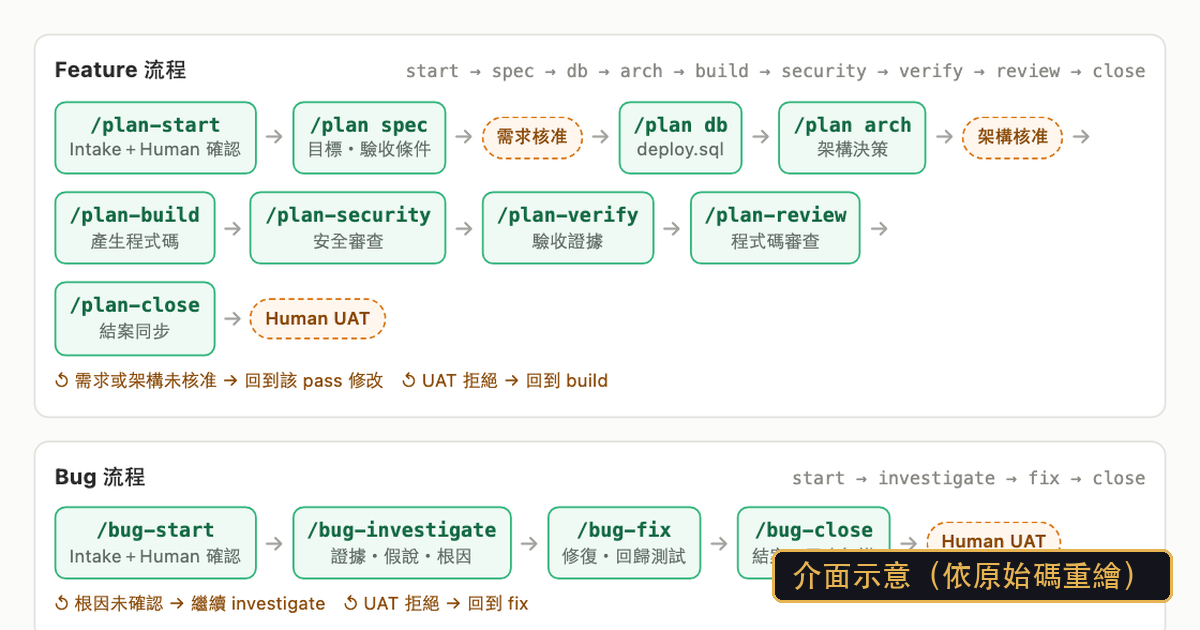
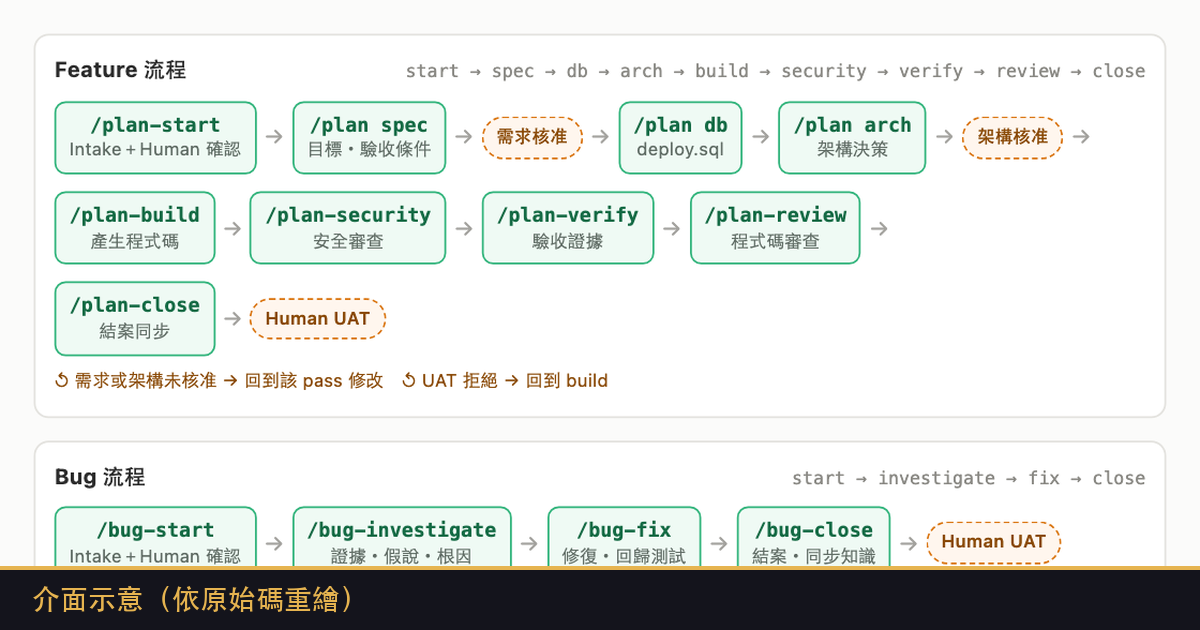
fix(sites): 總驗收修正：示意圖 OG 改用底部標註帶，手機版標題與 eyebrow 不再擠壓
- 示意主圖的 OG 圖改把截圖縮進上方、底部留獨立標註帶，標註不會壓住圖上內容（crew 原本壓到兩個方框）
- eyebrow 行高 1 → 1.5，換行時兩行不再黏在一起
- 首屏標題最小字級 44px → 30px，長中文名稱（家庭任務集點樂園）在 400px 寬不再把游標擠到下一行

Changed region(s): [[0.0, 0.8444, 1.0, 1.0]]

diff --git a/_sites/_template/page.html b/_sites/_template/page.html
@@ -94,9 +94,9 @@ kbd{border:1px solid var(--line);border-bottom-width:2px;border-radius:4px;paddi
 .hero{padding-block:clamp(40px,7vw,88px) clamp(32px,5vw,56px);
   background:radial-gradient(1200px 400px at 85% -10%, var(--accent-soft), transparent 70%)}
 .hero-grid{display:grid;gap:clamp(28px,4vw,48px)}
-.eyebrow{font:13px/1 var(--mono);color:var(--dim);margin:0 0 14px}
+.eyebrow{font:13px/1.5 var(--mono);color:var(--dim);margin:0 0 14px}
 .eyebrow b{color:var(--accent-ink);font-weight:600}
-.hero h1{margin:0;font:600 clamp(44px,8vw,76px)/1 var(--mono);letter-spacing:-.02em}
+.hero h1{margin:0;font:600 clamp(30px,8vw,76px)/1.1 var(--mono);letter-spacing:-.02em}
 .hero h1 .cur{display:inline-block;width:.5em;height:.9em;background:var(--accent);vertical-align:-.08em;margin-left:.08em;animation:blink 1.1s steps(1) infinite}
 @keyframes blink{50%{opacity:0}}
 @media (prefers-reduced-motion: reduce){.hero h1 .cur{animation:none}}

diff --git a/chatpulse/index.html b/chatpulse/index.html
@@ -94,9 +94,9 @@ kbd{border:1px solid var(--line);border-bottom-width:2px;border-radius:4px;paddi
 .hero{padding-block:clamp(40px,7vw,88px) clamp(32px,5vw,56px);
   background:radial-gradient(1200px 400px at 85% -10%, var(--accent-soft), transparent 70%)}
 .hero-grid{display:grid;gap:clamp(28px,4vw,48px)}
-.eyebrow{font:13px/1 var(--mono);color:var(--dim);margin:0 0 14px}
+.eyebrow{font:13px/1.5 var(--mono);color:var(--dim);margin:0 0 14px}
 .eyebrow b{color:var(--accent-ink);font-weight:600}
-.hero h1{margin:0;font:600 clamp(44px,8vw,76px)/1 var(--mono);letter-spacing:-.02em}
+.hero h1{margin:0;font:600 clamp(30px,8vw,76px)/1.1 var(--mono);letter-spacing:-.02em}
 .hero h1 .cur{display:inline-block;width:.5em;height:.9em;background:var(--accent);vertical-align:-.08em;margin-left:.08em;animation:blink 1.1s steps(1) infinite}
 @keyframes blink{50%{opacity:0}}
 @media (prefers-reduced-motion: reduce){.hero h1 .cur{animation:none}}

diff --git a/crew/index.html b/crew/index.html
@@ -94,9 +94,9 @@ kbd{border:1px solid var(--line);border-bottom-width:2px;border-radius:4px;paddi
 .hero{padding-block:clamp(40px,7vw,88px) clamp(32px,5vw,56px);
   background:radial-gradient(1200px 400px at 85% -10%, var(--accent-soft), transparent 70%)}
 .hero-grid{display:grid;gap:clamp(28px,4vw,48px)}
-.eyebrow{font:13px/1 var(--mono);color:var(--dim);margin:0 0 14px}
+.eyebrow{font:13px/1.5 var(--mono);color:var(--dim);margin:0 0 14px}
 .eyebrow b{color:var(--accent-ink);font-weight:600}
-.hero h1{margin:0;font:600 clamp(44px,8vw,76px)/1 var(--mono);letter-spacing:-.02em}
+.hero h1{margin:0;font:600 clamp(30px,8vw,76px)/1.1 var(--mono);letter-spacing:-.02em}
 .hero h1 .cur{display:inline-block;width:.5em;height:.9em;background:var(--accent);vertical-align:-.08em;margin-left:.08em;animation:blink 1.1s steps(1) infinite}
 @keyframes blink{50%{opacity:0}}
 @media (prefers-reduced-motion: reduce){.hero h1 .cur{animation:none}}

diff --git a/familyreward/index.html b/familyreward/index.html
@@ -94,9 +94,9 @@ kbd{border:1px solid var(--line);border-bottom-width:2px;border-radius:4px;paddi
 .hero{padding-block:clamp(40px,7vw,88px) clamp(32px,5vw,56px);
   background:radial-gradient(1200px 400px at 85% -10%, var(--accent-soft), transparent 70%)}
 .hero-grid{display:grid;gap:clamp(28px,4vw,48px)}
-.eyebrow{font:13px/1 var(--mono);color:var(--dim);margin:0 0 14px}
+.eyebrow{font:13px/1.5 var(--mono);color:var(--dim);margin:0 0 14px}
 .eyebrow b{color:var(--accent-ink);font-weight:600}
-.hero h1{margin:0;font:600 clamp(44px,8vw,76px)/1 var(--mono);letter-spacing:-.02em}
+.hero h1{margin:0;font:600 clamp(30px,8vw,76px)/1.1 var(--mono);letter-spacing:-.02em}
 .hero h1 .cur{display:inline-block;width:.5em;height:.9em;background:var(--accent);vertical-align:-.08em;margin-left:.08em;animation:blink 1.1s steps(1) infinite}
 @keyframes blink{50%{opacity:0}}
 @media (prefers-reduced-motion: reduce){.hero h1 .cur{animation:none}}

diff --git a/filmaxweb/index.html b/filmaxweb/index.html
@@ -94,9 +94,9 @@ kbd{border:1px solid var(--line);border-bottom-width:2px;border-radius:4px;paddi
 .hero{padding-block:clamp(40px,7vw,88px) clamp(32px,5vw,56px);
   background:radial-gradient(1200px 400px at 85% -10%, var(--accent-soft), transparent 70%)}
 .hero-grid{display:grid;gap:clamp(28px,4vw,48px)}
-.eyebrow{font:13px/1 var(--mono);color:var(--dim);margin:0 0 14px}
+.eyebrow{font:13px/1.5 var(--mono);color:var(--dim);margin:0 0 14px}
 .eyebrow b{color:var(--accent-ink);font-weight:600}
-.hero h1{margin:0;font:600 clamp(44px,8vw,76px)/1 var(--mono);letter-spacing:-.02em}
+.hero h1{margin:0;font:600 clamp(30px,8vw,76px)/1.1 var(--mono);letter-spacing:-.02em}
 .hero h1 .cur{display:inline-block;width:.5em;height:.9em;background:var(--accent);vertical-align:-.08em;margin-left:.08em;animation:blink 1.1s steps(1) infinite}
 @keyframes blink{50%{opacity:0}}
 @media (prefers-reduced-motion: reduce){.hero h1 .cur{animation:none}}

diff --git a/splitswan/index.html b/splitswan/index.html
@@ -94,9 +94,9 @@ kbd{border:1px solid var(--line);border-bottom-width:2px;border-radius:4px;paddi
 .hero{padding-block:clamp(40px,7vw,88px) clamp(32px,5vw,56px);
   background:radial-gradient(1200px 400px at 85% -10%, var(--accent-soft), transparent 70%)}
 .hero-grid{display:grid;gap:clamp(28px,4vw,48px)}
-.eyebrow{font:13px/1 var(--mono);color:var(--dim);margin:0 0 14px}
+.eyebrow{font:13px/1.5 var(--mono);color:var(--dim);margin:0 0 14px}
 .eyebrow b{color:var(--accent-ink);font-weight:600}
-.hero h1{margin:0;font:600 clamp(44px,8vw,76px)/1 var(--mono);letter-spacing:-.02em}
+.hero h1{margin:0;font:600 clamp(30px,8vw,76px)/1.1 var(--mono);letter-spacing:-.02em}
 .hero h1 .cur{display:inline-block;width:.5em;height:.9em;background:var(--accent);vertical-align:-.08em;margin-left:.08em;animation:blink 1.1s steps(1) infinite}
 @keyframes blink{50%{opacity:0}}
 @media (prefers-reduced-motion: reduce){.hero h1 .cur{animation:none}}

diff --git a/sshm/index.html b/sshm/index.html
@@ -94,9 +94,9 @@ kbd{border:1px solid var(--line);border-bottom-width:2px;border-radius:4px;paddi
 .hero{padding-block:clamp(40px,7vw,88px) clamp(32px,5vw,56px);
   background:radial-gradient(1200px 400px at 85% -10%, var(--accent-soft), transparent 70%)}
 .hero-grid{display:grid;gap:clamp(28px,4vw,48px)}
-.eyebrow{font:13px/1 var(--mono);color:var(--dim);margin:0 0 14px}
+.eyebrow{font:13px/1.5 var(--mono);color:var(--dim);margin:0 0 14px}
 .eyebrow b{color:var(--accent-ink);font-weight:600}
-.hero h1{margin:0;font:600 clamp(44px,8vw,76px)/1 var(--mono);letter-spacing:-.02em}
+.hero h1{margin:0;font:600 clamp(30px,8vw,76px)/1.1 var(--mono);letter-spacing:-.02em}
 .hero h1 .cur{display:inline-block;width:.5em;height:.9em;background:var(--accent);vertical-align:-.08em;margin-left:.08em;animation:blink 1.1s steps(1) infinite}
 @keyframes blink{50%{opacity:0}}
 @media (prefers-reduced-motion: reduce){.hero h1 .cur{animation:none}}

diff --git a/treef/index.html b/treef/index.html
@@ -94,9 +94,9 @@ kbd{border:1px solid var(--line);border-bottom-width:2px;border-radius:4px;paddi
 .hero{padding-block:clamp(40px,7vw,88px) clamp(32px,5vw,56px);
   background:radial-gradient(1200px 400px at 85% -10%, var(--accent-soft), transparent 70%)}
 .hero-grid{display:grid;gap:clamp(28px,4vw,48px)}
-.eyebrow{font:13px/1 var(--mono);color:var(--dim);margin:0 0 14px}
+.eyebrow{font:13px/1.5 var(--mono);color:var(--dim);margin:0 0 14px}
 .eyebrow b{color:var(--accent-ink);font-weight:600}
-.hero h1{margin:0;font:600 clamp(44px,8vw,76px)/1 var(--mono);letter-spacing:-.02em}
+.hero h1{margin:0;font:600 clamp(30px,8vw,76px)/1.1 var(--mono);letter-spacing:-.02em}
 .hero h1 .cur{display:inline-block;width:.5em;height:.9em;background:var(--accent);vertical-align:-.08em;margin-left:.08em;animation:blink 1.1s steps(1) infinite}
 @keyframes blink{50%{opacity:0}}
 @media (prefers-reduced-motion: reduce){.hero h1 .cur{animation:none}}

diff --git a/voicetype/index.html b/voicetype/index.html
@@ -94,9 +94,9 @@ kbd{border:1px solid var(--line);border-bottom-width:2px;border-radius:4px;paddi
 .hero{padding-block:clamp(40px,7vw,88px) clamp(32px,5vw,56px);
   background:radial-gradient(1200px 400px at 85% -10%, var(--accent-soft), transparent 70%)}
 .hero-grid{display:grid;gap:clamp(28px,4vw,48px)}
-.eyebrow{font:13px/1 var(--mono);color:var(--dim);margin:0 0 14px}
+.eyebrow{font:13px/1.5 var(--mono);color:var(--dim);margin:0 0 14px}
 .eyebrow b{color:var(--accent-ink);font-weight:600}
-.hero h1{margin:0;font:600 clamp(44px,8vw,76px)/1 var(--mono);letter-spacing:-.02em}
+.hero h1{margin:0;font:600 clamp(30px,8vw,76px)/1.1 var(--mono);letter-spacing:-.02em}
 .hero h1 .cur{display:inline-block;width:.5em;height:.9em;background:var(--accent);vertical-align:-.08em;margin-left:.08em;animation:blink 1.1s steps(1) infinite}
 @keyframes blink{50%{opacity:0}}
 @media (prefers-reduced-motion: reduce){.hero h1 .cur{animation:none}}

diff --git a/tools/build_sites.py b/tools/build_sites.py
@@ -47,6 +47,7 @@ OG_SIZE = (1200, 630)
 OG_FONTS = ["/System/Library/Fonts/STHeiti Medium.ttc", "/System/Library/Fonts/Hiragino Sans GB.ttc",
             "/usr/share/fonts/opentype/noto/NotoSansCJK-Bold.ttc"]
 OG_MOCK_LABEL = "介面示意（依原始碼重繪）"
+OG_BAND = 64  # 示意圖 OG 底部標註帶高度
 
 ICONS = {
     "download": '<svg viewBox="0 0 24 24" fill="none" stroke="currentColor" stroke-width="2" stroke-linecap="round" stroke-linejoin="round" aria-hidden="true"><path d="M12 3v12"/><path d="m7 10 5 5 5-5"/><path d="M5 21h14"/></svg>',
@@ -355,24 +356,30 @@ def make_og(src, dst, mock=False):
         w, h = im.size
         scale = max(OG_SIZE[0] / w, OG_SIZE[1] / h)
         nw, nh = round(w * scale), round(h * scale)
-        im = im.resize((nw, nh), Image.LANCZOS).crop((0, 0) + OG_SIZE)
-        if mock:
+        if not mock:
+            im = im.resize((nw, nh), Image.LANCZOS).crop((0, 0) + OG_SIZE)
+        else:
+            # 示意圖：底部留一條標註帶，圖本身縮進上方，標註不會壓到內容
+            area = (OG_SIZE[0], OG_SIZE[1] - OG_BAND)
+            scale = max(area[0] / w, area[1] / h)
+            shot = im.resize((round(w * scale), round(h * scale)), Image.LANCZOS).crop((0, 0) + area)
+            im = Image.new("RGB", OG_SIZE, (20, 20, 28))
+            im.paste(shot, (0, 0))
             _draw_mock_label(im)
         im.save(dst, "PNG")
 
 
 def _draw_mock_label(im):
+    """在底部標註帶左側寫上「介面示意」。"""
     font_path = next((f for f in OG_FONTS if os.path.isfile(f)), None)
     if not font_path:
         raise SiteError("找不到可畫中文標註的字型（OG_FONTS），無法產生示意圖的 OG 圖")
-    font = ImageFont.truetype(font_path, 30)
+    font = ImageFont.truetype(font_path, 28)
     d = ImageDraw.Draw(im)
+    top = OG_SIZE[1] - OG_BAND
+    d.rectangle((0, top, OG_SIZE[0], top + 3), fill=(230, 180, 80))
     l, t, r, b = d.textbbox((0, 0), OG_MOCK_LABEL, font=font)
-    pad_x, pad_y, margin = 20, 12, 28
-    w, h = r - l + pad_x * 2, b - t + pad_y * 2
-    x0, y0 = OG_SIZE[0] - margin - w, OG_SIZE[1] - margin - h
-    d.rounded_rectangle((x0, y0, x0 + w, y0 + h), radius=10, fill=(20, 20, 28), outline=(230, 180, 80), width=3)
-    d.text((x0 + pad_x - l, y0 + pad_y - t), OG_MOCK_LABEL, font=font, fill=(230, 180, 80))
+    d.text((32 - l, top + 3 + (OG_BAND - 3 - (b - t)) // 2 - t), OG_MOCK_LABEL, font=font, fill=(230, 180, 80))
 
 
 def build_site(slug, out_root, template):
